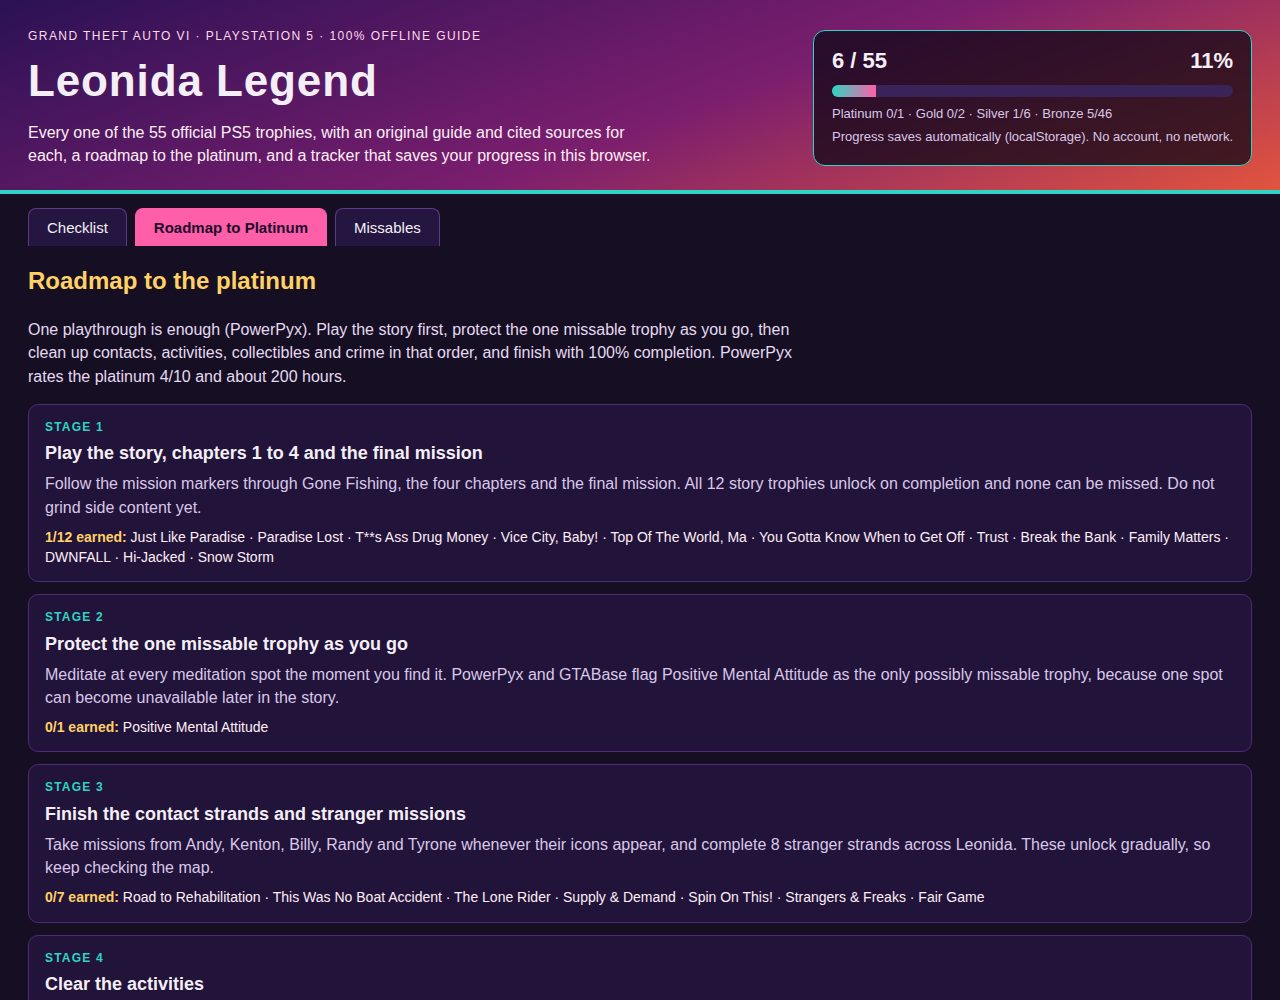
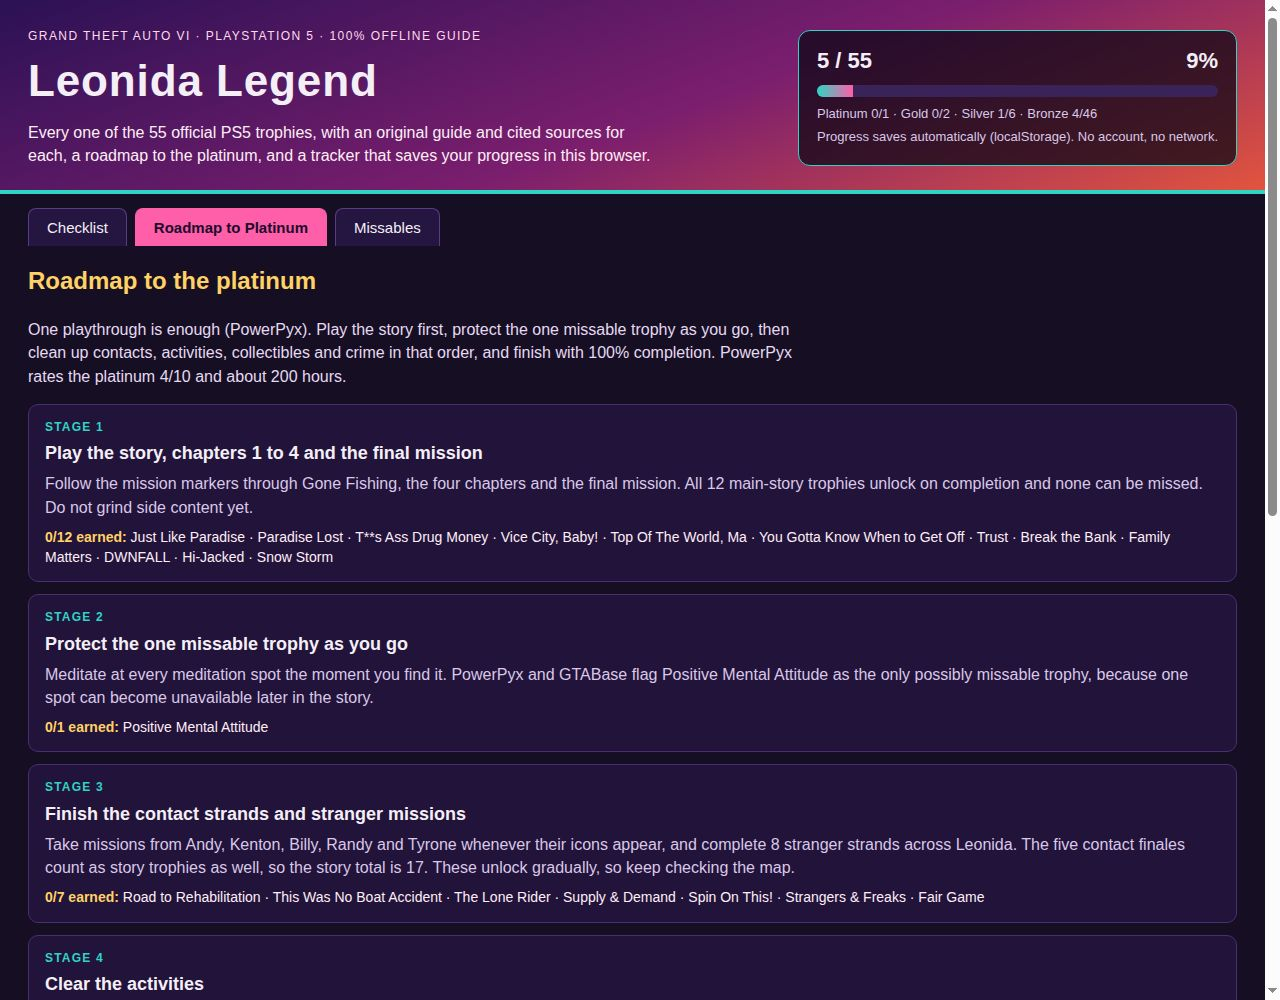
Review fixes: roadmap covers all 55 trophies, spoiler mode hides names on roadmap too
- Stage 7 missed One Last Thing (50 challenges): roadmap covered 54/55.
  Added id 32 to stage 7 with a mention in its text.
- Spoiler leak: with spoilers on, the roadmap listed all 12 hidden
  story trophy names in plain text. renderRoadmap now masks hidden,
  un-earned trophies the same way the checklist does.
- Spoiler mask label was 'Hidden story trophy' even for non-story
  hidden trophies (11 of them); now kind-aware ('Hidden trophy').
- Roadmap text said 'All 12 story trophies' while the Story filter
  counts 17 (5 contact finales are story-kind too); clarified to
  '12 main-story trophies' and noted the story total is 17 in stage 3.
- ?spoiler= param is now read after ?demo=1 so a deep link can
  override demo mode's spoiler-on default; shots.json screenshot 2
  uses ?view=roadmap&demo=1&spoiler=0 and was retaken (1280x1000).

diff --git a/app/app.js b/app/app.js
@@ -14,7 +14,7 @@ const KIND_LABELS = {
 const ROADMAP_STAGES = [
   {
     title: 'Play the story, chapters 1 to 4 and the final mission',
-    text: 'Follow the mission markers through Gone Fishing, the four chapters and the final mission. All 12 story trophies unlock on completion and none can be missed. Do not grind side content yet.',
+    text: 'Follow the mission markers through Gone Fishing, the four chapters and the final mission. All 12 main-story trophies unlock on completion and none can be missed. Do not grind side content yet.',
     ids: [2, 3, 4, 5, 6, 7, 8, 9, 10, 11, 12, 13],
   },
   {
@@ -24,7 +24,7 @@ const ROADMAP_STAGES = [
   },
   {
     title: 'Finish the contact strands and stranger missions',
-    text: 'Take missions from Andy, Kenton, Billy, Randy and Tyrone whenever their icons appear, and complete 8 stranger strands across Leonida. These unlock gradually, so keep checking the map.',
+    text: 'Take missions from Andy, Kenton, Billy, Randy and Tyrone whenever their icons appear, and complete 8 stranger strands across Leonida. The five contact finales count as story trophies as well, so the story total is 17. These unlock gradually, so keep checking the map.',
     ids: [22, 23, 24, 26, 27, 25, 29],
   },
   {
@@ -44,8 +44,8 @@ const ROADMAP_STAGES = [
   },
   {
     title: 'Mop up the odd and hidden trophies',
-    text: 'The cryptic hidden trophies: a cocktail on Ocean Beach, the showroom smash, the partner trophy, 500 Criminal Profile actions, a second-try success and the mystery event. None is tied to the story, so they can all be done in free roam.',
-    ids: [44, 45, 47, 48, 49, 50],
+    text: 'The cryptic hidden trophies: a cocktail on Ocean Beach, the showroom smash, the partner trophy, 500 Criminal Profile actions, a second-try success and the mystery event, plus One Last Thing for completing 50 challenges, which finishes passively along the way. None is tied to the story, so they can all be done in free roam.',
+    ids: [44, 45, 47, 48, 49, 50, 32],
   },
   {
     title: 'Finish 100% completion, then the platinum',
@@ -122,7 +122,7 @@ function trophyCard(trophy) {
   const desc = document.createElement('p');
   desc.className = 'trophy-desc';
   if (isSpoilerHidden(trophy)) {
-    name.textContent = 'Hidden story trophy';
+    name.textContent = trophy.kind === 'story' ? 'Hidden story trophy' : 'Hidden trophy';
     name.classList.add('spoiler-mask');
     desc.textContent = 'Hidden until earned: turn off “Hide story spoilers” or earn it to reveal its name and description.';
     desc.classList.add('spoiler-mask');
@@ -234,7 +234,12 @@ function renderRoadmap() {
     const label = document.createElement('b');
     label.textContent = `${done}/${stage.ids.length} earned: `;
     names.append(label);
-    names.append(stage.ids.map((id) => byId.get(id).name).join(' · '));
+    // The spoiler setting hides story names everywhere, not just in the
+    // checklist: a hidden, un-earned trophy shows only its masked label here.
+    names.append(stage.ids.map((id) => {
+      const t = byId.get(id);
+      return isSpoilerHidden(t) ? (t.kind === 'story' ? 'Hidden story trophy' : 'Hidden trophy') : t.name;
+    }).join(' · '));
     li.append(h, p, names);
     return li;
   }));
@@ -308,8 +313,6 @@ function applyDemoMode() {
     activeKind = params.get('filter');
     for (const b of document.querySelectorAll('.kind')) b.classList.toggle('active', b.dataset.kind === activeKind);
   }
-  if (params.get('spoiler') === '1') spoilerEl.checked = true;
-  if (params.get('spoiler') === '0') spoilerEl.checked = false;
   if (params.get('guide')) openGuideId = Number(params.get('guide'));
   if (params.get('demo') === '1') {
     // A half-finished run on purpose: no story trophy earned yet, so the
@@ -320,6 +323,10 @@ function applyDemoMode() {
     spoilerEl.checked = true;
     openGuideId = 28;
   }
+  // The spoiler param is read last, so a deep link can override demo mode's
+  // spoiler-on default (e.g. a roadmap screenshot that shows every name).
+  if (params.get('spoiler') === '1') spoilerEl.checked = true;
+  if (params.get('spoiler') === '0') spoilerEl.checked = false;
 }
 
 applyDemoMode();
